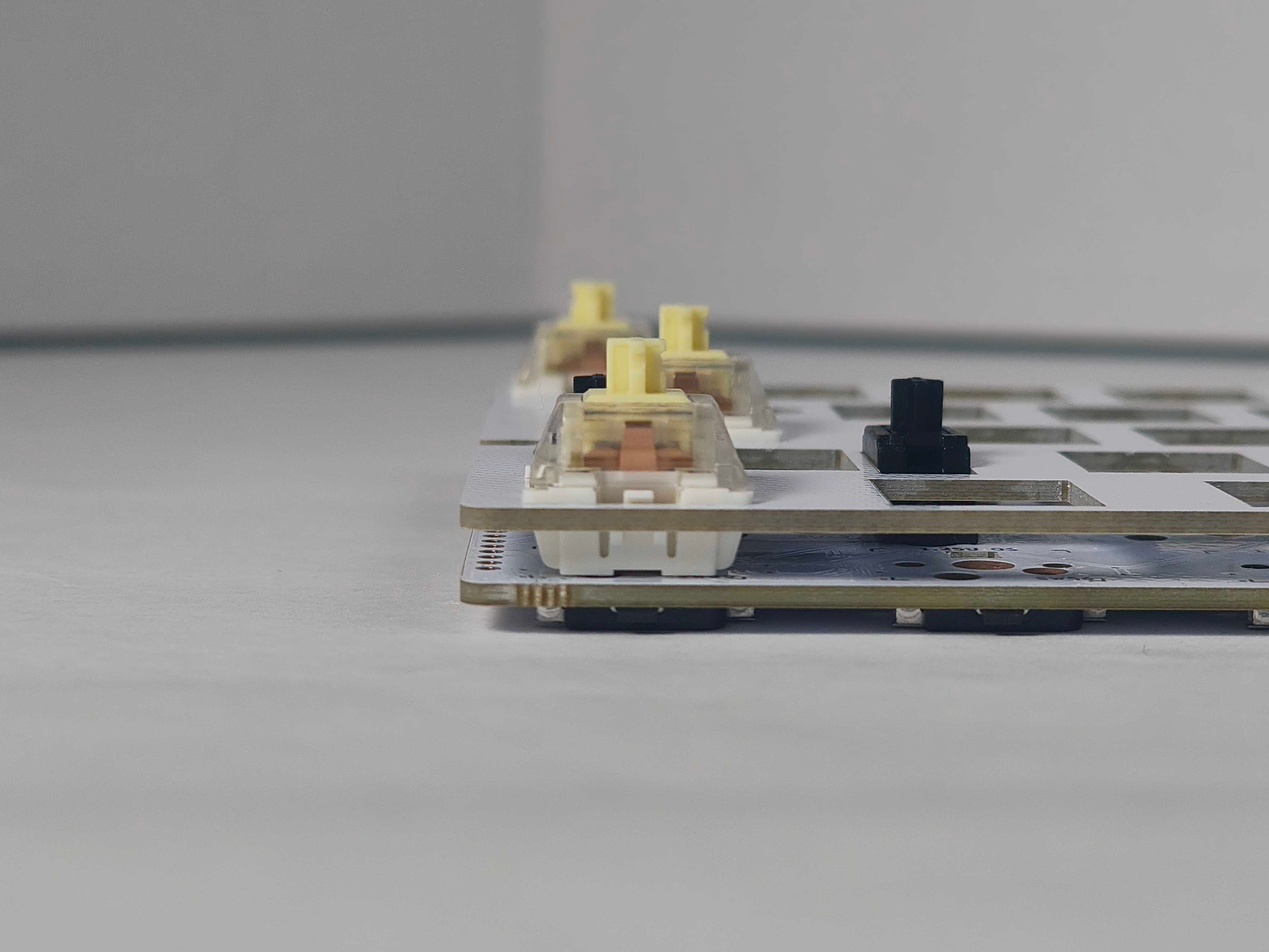
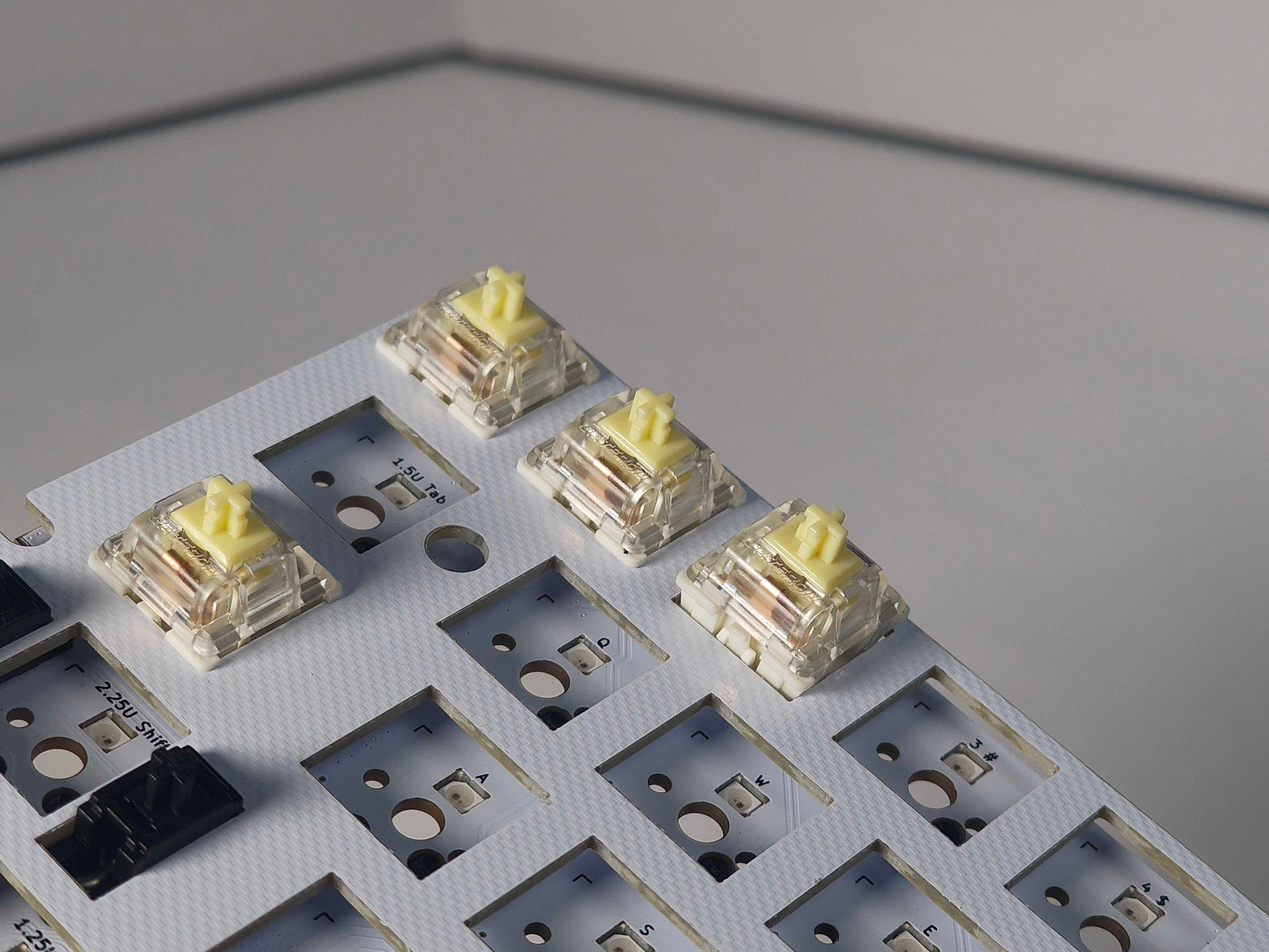
fix

diff --git a/YK60/readme.md b/YK60/readme.md
@@ -130,13 +130,12 @@ LED窓がある方が上、スイッチピンがある方を下とします。
 
 基板に固定する際は、スイッチと実装基板の隙間がなくなるよう、奥まで挿し込みます。
 ![SW_06](imgs/switch_06.jpg)
-![SW_07](imgs/switch_07.jpg)
 
 順番にスイッチを取付けていきます。
-![SW_08](imgs/switch_08.jpg)
+![SW_07](imgs/switch_07.jpg)
 
 すべてのスイッチを固定できたら、次の工程に進みます。
-![SW_09](imgs/switch_09.jpg)
+![SW_08](imgs/switch_08.jpg)
 
 ## 6. ケースに取り付ける
 スイッチを取り付けた実装基板をケースに固定します。
